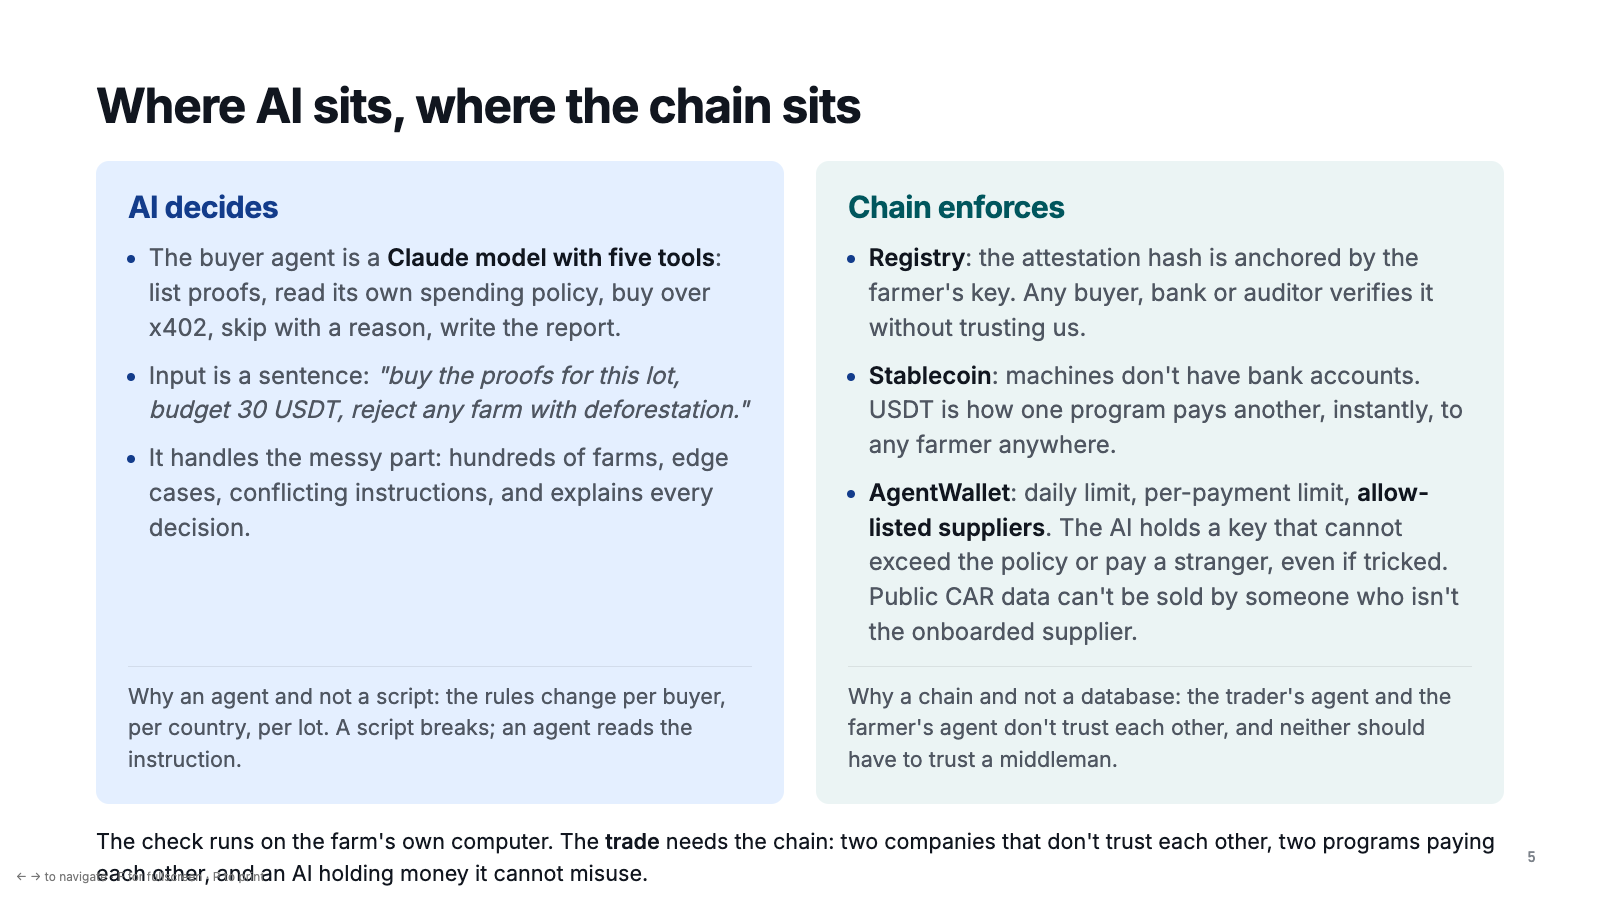
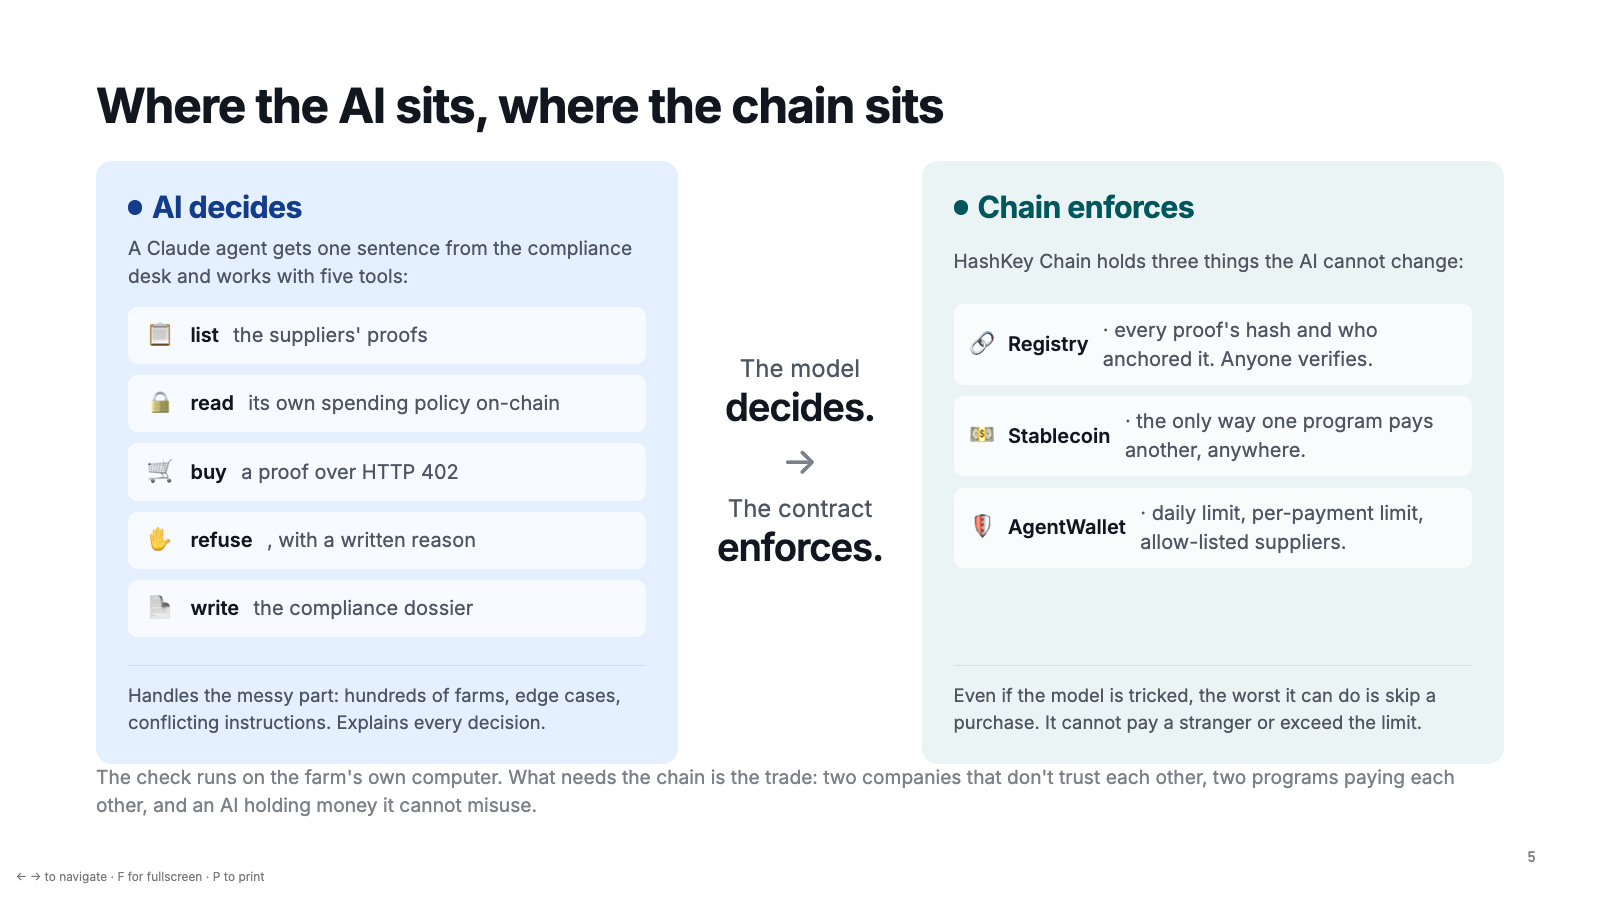
Slide 5: AI decides / chain enforces, visual

diff --git a/docs/slides/index.html b/docs/slides/index.html
@@ -69,6 +69,21 @@
   .pain { background: var(--bad-soft); border-radius: 0.8vw; padding: 1.4vw 1.5vw; }
   .pain b { display: block; font-size: 2.8vw; letter-spacing: -0.04em; color: var(--bad); line-height: 1; }
   .pain span { display: block; margin-top: 0.5vw; font-size: 1.15vw; color: var(--ink-2); line-height: 1.35; }
+  .ai-chain { display: grid; grid-template-columns: 1fr 12vw 1fr; gap: 1.6vw; flex: 1; align-items: stretch; }
+  .col { border-radius: 1vw; padding: 1.8vw 2vw; display: flex; flex-direction: column; }
+  .col.ai { background: var(--primary-soft); } .col.chain { background: oklch(0.96 0.01 200); }
+  .col-h { font-size: 1.9vw; font-weight: 700; letter-spacing: -0.02em; display: flex; align-items: center; gap: 0.6vw; }
+  .col.ai .col-h { color: var(--primary); } .col.chain .col-h { color: oklch(0.4 0.1 200); }
+  .col-h .dot { width: 0.9vw; height: 0.9vw; border-radius: 50%; background: currentColor; }
+  .col-sub { font-size: 1.2vw; color: var(--ink-2); margin: 0.6vw 0 1vw; }
+  .tools { list-style: none; padding: 0; margin: 0; display: grid; gap: 0.7vw; }
+  .tools li { display: flex; align-items: center; gap: 0.9vw; background: rgba(255,255,255,.7); border-radius: 0.6vw; padding: 0.7vw 1vw; font-size: 1.25vw; color: var(--ink-2); }
+  .tools li i { font-style: normal; font-size: 1.5vw; width: 2vw; text-align: center; }
+  .tools li b { color: var(--ink); }
+  .col-foot { margin-top: auto; padding-top: 1vw; font-size: 1.15vw; color: var(--ink-2); border-top: 1px solid rgba(0,0,0,.08); }
+  .mid { display: flex; flex-direction: column; align-items: center; justify-content: center; gap: 0.6vw; text-align: center; }
+  .mid-line { font-size: 1.5vw; color: var(--ink-2); line-height: 1.2; } .mid-line b { display: block; font-size: 2.4vw; color: var(--ink); letter-spacing: -0.03em; }
+  .mid-arrow { font-size: 2.4vw; color: var(--ink-3); }
   /* comparison */
   .cmp { display: grid; grid-template-columns: 15vw 1fr 1fr; gap: 0.6vw 1vw; margin-top: 0.4vw; }
   .cmp-h { font-weight: 700; font-size: 1.35vw; padding: 0.4vw 1vw; }
@@ -167,28 +182,37 @@
 
 <!-- 5 -->
 <section class="slide">
-  <h2>Where AI sits, where the chain sits</h2>
-  <div class="layers">
-    <div class="layer ai">
-      <h3>AI decides</h3>
-      <ul>
-        <li>The buyer agent is a <b>Claude model with five tools</b>: list proofs, read its own spending policy, buy over x402, skip with a reason, write the report.</li>
-        <li>Input is a sentence: <i>"buy the proofs for this lot, budget 30 USDT, reject any farm with deforestation."</i></li>
-        <li>It handles the messy part: hundreds of farms, edge cases, conflicting instructions, and explains every decision.</li>
+  <h2>Where the AI sits, where the chain sits</h2>
+  <div class="ai-chain">
+    <div class="col ai">
+      <div class="col-h"><span class="dot"></span>AI decides</div>
+      <p class="col-sub">A Claude agent gets one sentence from the compliance desk and works with five tools:</p>
+      <ul class="tools">
+        <li><i>📋</i><b>list</b> the suppliers' proofs</li>
+        <li><i>🔒</i><b>read</b> its own spending policy on-chain</li>
+        <li><i>🛒</i><b>buy</b> a proof over HTTP 402</li>
+        <li><i>✋</i><b>refuse</b>, with a written reason</li>
+        <li><i>📄</i><b>write</b> the compliance dossier</li>
       </ul>
-      <p class="why">Why an agent and not a script: the rules change per buyer, per country, per lot. A script breaks; an agent reads the instruction.</p>
+      <p class="col-foot">Handles the messy part: hundreds of farms, edge cases, conflicting instructions. Explains every decision.</p>
     </div>
-    <div class="layer chain">
-      <h3>Chain enforces</h3>
-      <ul>
-        <li><b>Registry</b>: the attestation hash is anchored by the farmer's key. Any buyer, bank or auditor verifies it without trusting us.</li>
-        <li><b>Stablecoin</b>: machines don't have bank accounts. USDT is how one program pays another, instantly, to any farmer anywhere.</li>
-        <li><b>AgentWallet</b>: daily limit, per-payment limit, <b>allow-listed suppliers</b>. The AI holds a key that cannot exceed the policy or pay a stranger, even if tricked. Public CAR data can't be sold by someone who isn't the onboarded supplier.</li>
+    <div class="mid">
+      <div class="mid-line">The model<br/><b>decides.</b></div>
+      <div class="mid-arrow">→</div>
+      <div class="mid-line">The contract<br/><b>enforces.</b></div>
+    </div>
+    <div class="col chain">
+      <div class="col-h"><span class="dot"></span>Chain enforces</div>
+      <p class="col-sub">HashKey Chain holds three things the AI cannot change:</p>
+      <ul class="tools">
+        <li><i>🔗</i><b>Registry</b> · every proof's hash and who anchored it. Anyone verifies.</li>
+        <li><i>💵</i><b>Stablecoin</b> · the only way one program pays another, anywhere.</li>
+        <li><i>🛡</i><b>AgentWallet</b> · daily limit, per-payment limit, allow-listed suppliers.</li>
       </ul>
-      <p class="why">Why a chain and not a database: the trader's agent and the farmer's agent don't trust each other, and neither should have to trust a middleman.</p>
+      <p class="col-foot">Even if the model is tricked, the worst it can do is skip a purchase. It cannot pay a stranger or exceed the limit.</p>
     </div>
   </div>
-  <p class="note" style="font-size:1.35vw;color:var(--ink);margin-top:1.4vw">The check runs on the farm's own computer. The <b>trade</b> needs the chain: two companies that don't trust each other, two programs paying each other, and an AI holding money it cannot misuse.</p>
+  <p class="note">The check runs on the farm's own computer. What needs the chain is the trade: two companies that don't trust each other, two programs paying each other, and an AI holding money it cannot misuse.</p>
   <span class="n">5</span>
 </section>
 
